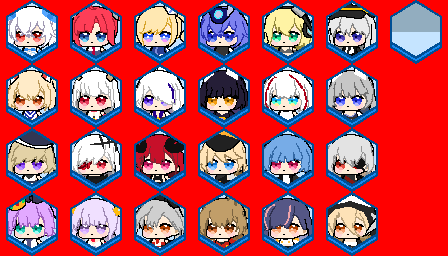
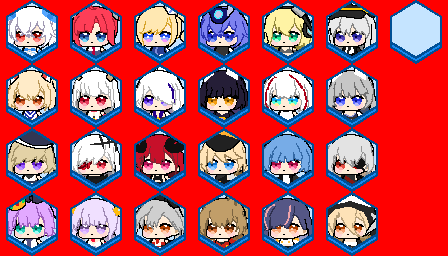
added glow pulsing and glint effects for the shipgirl marker in fleet selection menu

Changed region(s): [[0.875, 0.0, 1.0, 0.125]]

diff --git a/src/menus/fleet_selection_menu.py b/src/menus/fleet_selection_menu.py
@@ -27,13 +27,16 @@ class FleetSelectionMenu:
     Y_ALIGN = screen_y(0.3)
     PATH_DASH_LENGTH = 16
     PATH_DASH_WIDTH = 4
-    PATH_HEX_PULSE_DURATION = 2.4
-    PATH_HEX_GLINT_CYCLE = 0.9
-    PATH_HEX_GLINT_LIFETIME = 0.7
+    SELECTION_PULSE_DURATION = 2.4
+    SELECTION_GLINT_CYCLE = 0.9
+    SELECTION_GLINT_LIFETIME = 0.7
+    SELECTION_GLINT_MAX_LENGTH = 5
+    SELECTION_GLINT_DRIFT = 12
     PATH_HEX_GLINTS_PER_HEX = 4
-    PATH_HEX_GLINT_MAX_LENGTH = 5
     PATH_HEX_GLINT_MARGIN = 6
-    PATH_HEX_GLINT_DRIFT = 12
+    MARKER_GLINT_COUNT = 4
+    MARKER_GLINT_MARGIN = 6
+    MARKER_PROJECTION_ALPHA = 192
     TRAY_WOOD_COLOR = (116, 79, 52)
     TRAY_BEZEL_COLOR = (153, 108, 74)
     TRAY_WOOD_GRAIN_SEED = 1
@@ -138,9 +141,11 @@ class FleetSelectionMenu:
 
         self.path = []
         self.path_hexes = []
-        self.path_hex_effect_time = 0
+        self.selection_effect_time = 0
 
         self.background = Background()
+        self.marker_glow_layer = None
+        self.marker_projection_layer = None
 
     def _draw_dashed_rect(self, surface, rect, color = Color.WHITE, dash_length = PATH_DASH_LENGTH, dash_width = PATH_DASH_WIDTH):
         for start, end in [
@@ -257,22 +262,58 @@ class FleetSelectionMenu:
         if len(self.path_hexes) < num_encounters:
             self.path_hexes.append(pos)
 
-    def draw_path_hexes(self, surface):
-        hex_size = Box.WIDTH/2
+    def get_pulsing_selection_glow(self, glow_sprite):
         pulse = (
             math.sin(
-                self.path_hex_effect_time
+                self.selection_effect_time
                 * math.tau
-                / self.PATH_HEX_PULSE_DURATION
+                / self.SELECTION_PULSE_DURATION
             )
             + 1
         ) / 2
-        glow_base = DataFiles.sprites[
-            "sortie_selection"
-        ]["locked_node_selection_glow"].copy()
+        glow_base = glow_sprite.copy()
         glow_base.set_alpha(int(128 + 127*pulse))
         glow = pygame.Surface(glow_base.get_size())
         glow.blit(glow_base)
+        return glow
+
+    def draw_selection_glint(self, surface, center, color, strength):
+        glint_length = 1 + round(
+            (self.SELECTION_GLINT_MAX_LENGTH - 1)*strength
+        )
+        glint_color = tuple(round(channel*strength) for channel in color)
+        glint_surface = pygame.Surface(
+            (
+                2*self.SELECTION_GLINT_MAX_LENGTH + 1,
+                2*self.SELECTION_GLINT_MAX_LENGTH + 1,
+            )
+        )
+        glint_surface_center = pygame.Vector2(
+            self.SELECTION_GLINT_MAX_LENGTH,
+            self.SELECTION_GLINT_MAX_LENGTH,
+        )
+        pygame.draw.line(
+            glint_surface,
+            glint_color,
+            glint_surface_center - pygame.Vector2(glint_length, 0),
+            glint_surface_center + pygame.Vector2(glint_length, 0),
+        )
+        pygame.draw.line(
+            glint_surface,
+            glint_color,
+            glint_surface_center - pygame.Vector2(0, glint_length),
+            glint_surface_center + pygame.Vector2(0, glint_length),
+        )
+        surface.blit(
+            glint_surface,
+            glint_surface.get_rect(center=center),
+            special_flags=pygame.BLEND_RGB_ADD,
+        )
+
+    def draw_path_hexes(self, surface):
+        hex_size = Box.WIDTH/2
+        glow_sprite = DataFiles.sprites["sortie_selection"]["locked_node_selection_glow"]
+        glow = self.get_pulsing_selection_glow(glow_sprite)
 
         icon = DataFiles.sprites["user_interface"]["uncleared"]
         path_hex_centers = []
@@ -318,15 +359,15 @@ class FleetSelectionMenu:
             for glint_index in range(self.PATH_HEX_GLINTS_PER_HEX):
                 particle_index = glint_index*len(path_hex_centers) + hex_index
                 glint_time = (
-                    self.path_hex_effect_time
-                    + particle_index*self.PATH_HEX_GLINT_CYCLE/glint_count
+                    self.selection_effect_time
+                    + particle_index*self.SELECTION_GLINT_CYCLE/glint_count
                 )
-                glint_age = glint_time % self.PATH_HEX_GLINT_CYCLE
-                if glint_age >= self.PATH_HEX_GLINT_LIFETIME:
+                glint_age = glint_time % self.SELECTION_GLINT_CYCLE
+                if glint_age >= self.SELECTION_GLINT_LIFETIME:
                     continue
 
-                cycle_index = math.floor(glint_time / self.PATH_HEX_GLINT_CYCLE)
-                glint_progress = glint_age / self.PATH_HEX_GLINT_LIFETIME
+                cycle_index = math.floor(glint_time / self.SELECTION_GLINT_CYCLE)
+                glint_progress = glint_age / self.SELECTION_GLINT_LIFETIME
                 glint_strength = (1 - glint_progress)**1.5
                 half_spawn_width = (
                     math.sqrt(3)/2*hex_size - self.PATH_HEX_GLINT_MARGIN
@@ -347,42 +388,124 @@ class FleetSelectionMenu:
                 spawn_center = hex_center + pygame.Vector2(spawn_x, spawn_y)
                 center = spawn_center - pygame.Vector2(
                     0,
-                    self.PATH_HEX_GLINT_DRIFT*glint_progress,
+                    self.SELECTION_GLINT_DRIFT*glint_progress,
                 )
-                glint_length = 1 + round(
-                    (self.PATH_HEX_GLINT_MAX_LENGTH - 1)*glint_strength
+                self.draw_selection_glint(
+                    surface,
+                    center,
+                    Color.LOCKED_ZONE_OUTLINE,
+                    glint_strength,
                 )
-                glint_color = tuple(
-                    round(channel*glint_strength)
-                    for channel in Color.LOCKED_ZONE_OUTLINE
-                )
-                glint_surface = pygame.Surface(
-                    (
-                        2*self.PATH_HEX_GLINT_MAX_LENGTH + 1,
-                        2*self.PATH_HEX_GLINT_MAX_LENGTH + 1,
-                    )
-                )
-                glint_surface_center = pygame.Vector2(
-                    self.PATH_HEX_GLINT_MAX_LENGTH,
-                    self.PATH_HEX_GLINT_MAX_LENGTH,
-                )
-                pygame.draw.line(
-                    glint_surface,
-                    glint_color,
-                    glint_surface_center - pygame.Vector2(glint_length, 0),
-                    glint_surface_center + pygame.Vector2(glint_length, 0),
-                )
-                pygame.draw.line(
-                    glint_surface,
-                    glint_color,
-                    glint_surface_center - pygame.Vector2(0, glint_length),
-                    glint_surface_center + pygame.Vector2(0, glint_length),
-                )
-                surface.blit(
-                    glint_surface,
-                    glint_surface.get_rect(center=center),
-                    special_flags=pygame.BLEND_RGB_ADD,
-                )
+
+    def draw_marker_selection_effect(self, surface, marker_rect):
+        glow_sprite = DataFiles.sprites["fleet_selection"]["marker_selection_glow"]
+        glow = self.get_pulsing_selection_glow(glow_sprite)
+        glow_rect = glow.get_rect(midbottom=marker_rect.center)
+        surface.blit(glow, glow_rect, special_flags=pygame.BLEND_RGB_ADD)
+
+        vertical_spawn_range = glow_rect.height - 2*self.MARKER_GLINT_MARGIN
+        bottom_width = math.ceil(0.75*Box.WIDTH)
+        for glint_index in range(self.MARKER_GLINT_COUNT):
+            glint_time = (
+                self.selection_effect_time
+                + glint_index*self.SELECTION_GLINT_CYCLE/self.MARKER_GLINT_COUNT
+            )
+            glint_age = glint_time % self.SELECTION_GLINT_CYCLE
+            if glint_age >= self.SELECTION_GLINT_LIFETIME:
+                continue
+
+            cycle_index = math.floor(glint_time / self.SELECTION_GLINT_CYCLE)
+            glint_progress = glint_age / self.SELECTION_GLINT_LIFETIME
+            glint_strength = (1 - glint_progress)**1.5
+            spawn_y = (
+                self.MARKER_GLINT_MARGIN
+                + (cycle_index*19 + glint_index*31) % vertical_spawn_range
+            )
+            y_ratio = spawn_y / (glow_rect.height - 1)
+            cone_width = round(
+                glow_rect.width - (glow_rect.width - bottom_width)*y_ratio
+            )
+            half_spawn_width = cone_width/2 - self.MARKER_GLINT_MARGIN
+            spawn_x = (
+                (cycle_index*29 + glint_index*17) % (2*half_spawn_width)
+                - half_spawn_width
+            )
+            spawn_center = pygame.Vector2(
+                glow_rect.centerx + spawn_x,
+                glow_rect.top + spawn_y,
+            )
+            center = spawn_center - pygame.Vector2(
+                0,
+                self.SELECTION_GLINT_DRIFT*glint_progress,
+            )
+            if center.y < glow_rect.top:
+                continue
+            self.draw_selection_glint(
+                surface,
+                center,
+                Color.HOLOGRAM_GLOW,
+                glint_strength,
+            )
+
+    def get_marker_projection_layers(self, surface):
+        surface_size = surface.get_size()
+        if (
+            self.marker_glow_layer is None
+            or self.marker_glow_layer.get_size() != surface_size
+        ):
+            self.marker_glow_layer = pygame.Surface(surface_size)
+            self.marker_projection_layer = pygame.Surface(
+                surface_size,
+                flags=pygame.SRCALPHA,
+            )
+
+        self.marker_glow_layer.fill((0, 0, 0))
+        self.marker_projection_layer.fill((0, 0, 0, 0))
+
+        return self.marker_glow_layer, self.marker_projection_layer
+
+    def draw_marker_hologram(
+        self,
+        surface,
+        marker,
+        marker_rect,
+        shipgirl,
+        font_registry,
+    ):
+        glow_layer, projection_layer = self.get_marker_projection_layers(surface)
+        self.draw_marker_selection_effect(glow_layer, marker_rect)
+
+        # The opaque marker occludes the glow, keeping both halves the same color.
+        surface.blit(glow_layer, (0, 0), special_flags=pygame.BLEND_RGB_ADD)
+        surface.blit(marker, marker_rect)
+
+        shipgirl.draw(
+            projection_layer,
+            font_registry,
+            alpha=self.MARKER_PROJECTION_ALPHA,
+        )
+        surface.blit(projection_layer, (0, 0))
+
+        # Reapply the cone through the projection silhouette so the translucent
+        # shipgirl receives the light without brightening exposed marker pixels.
+        projection_mask = pygame.mask.from_surface(projection_layer, threshold=1)
+        mask_strength = self.MARKER_PROJECTION_ALPHA
+        mask_surface = projection_mask.to_surface(
+            setcolor=(255, 255, 255),
+            unsetcolor=(0, 0, 0),
+        )
+        mask_surface.set_colorkey(None)
+        projection_glow = glow_layer.copy()
+        projection_glow.blit(
+            mask_surface,
+            (0, 0),
+            special_flags=pygame.BLEND_RGB_MULT,
+        )
+        surface.blit(
+            projection_glow,
+            (0, 0),
+            special_flags=pygame.BLEND_RGB_ADD,
+        )
 
     def draw_tray_overlay(self, surface, font_registry):
         self.draw_tray_wood_grain(surface, self.tray_overlay)
@@ -444,7 +567,7 @@ class FleetSelectionMenu:
         return False
 
     def update(self, dt, events):
-        self.path_hex_effect_time += dt
+        self.selection_effect_time += dt
         for event in events:
             if event.type == pygame.MOUSEMOTION:
                 self.exit_fleet_selection_menu_button.hover(event.pos)
@@ -552,19 +675,16 @@ class FleetSelectionMenu:
                     marker = pygame.transform.flip(marker, flip_x=True, flip_y=False)
                 marker_rect = marker.get_rect()
                 marker_rect.center = slot.center
-                surface.blit(marker, marker_rect)
-                if marker_key == "blank":
-                    shipgirl.draw(surface, font_registry, alpha=160)
-                # TODO ad hoc solution right now with the sprite, need to figure out if
-                # there is a programmatic way to fix this issue
-                # the issue right now is that if the blank marker has the same color for
-                # the face, then the glow add blending will cause the upper half of the
-                # marker to be brighter than the lower half
                 if marker_hovered:
-                    glow = DataFiles.sprites["fleet_selection"]["marker_selection_glow"]
-                    glow_rect = glow.get_rect()
-                    glow_rect.midbottom = marker_rect.center
-                    surface.blit(glow, glow_rect, special_flags=pygame.BLEND_RGB_ADD)
+                    self.draw_marker_hologram(
+                        surface,
+                        marker,
+                        marker_rect,
+                        shipgirl,
+                        font_registry,
+                    )
+                else:
+                    surface.blit(marker, marker_rect)
             elif self.selected_shipgirl is not None:
                 anchor_sprite = DataFiles.sprites["user_interface"]["start_sortie"]
                 anchor_rect = anchor_sprite.get_rect()
